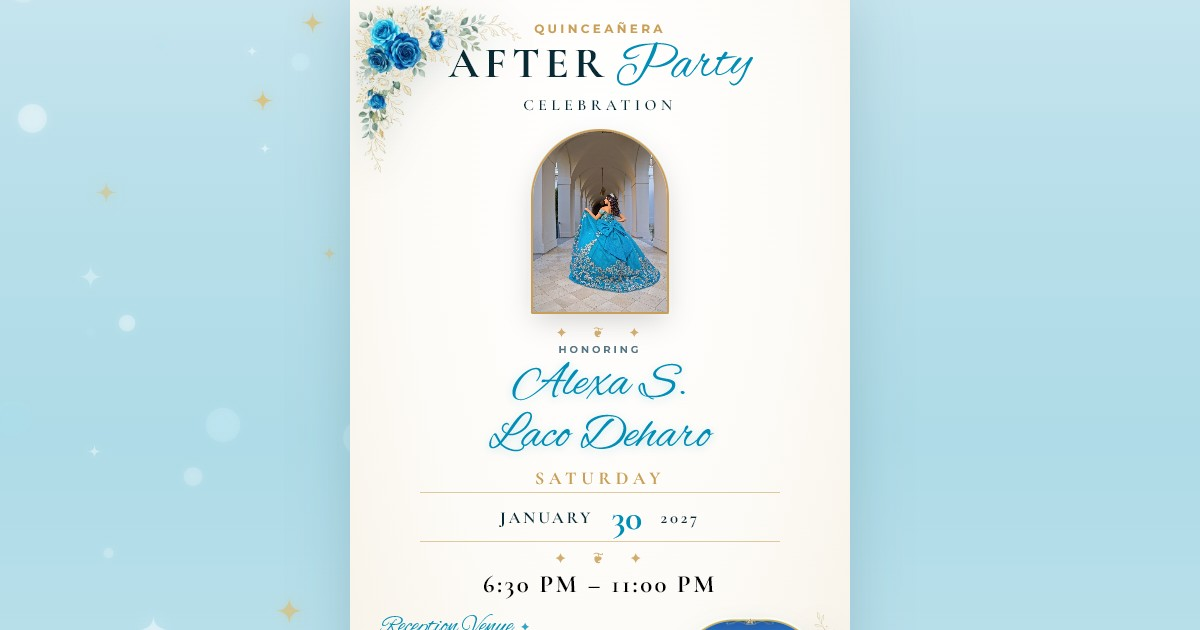
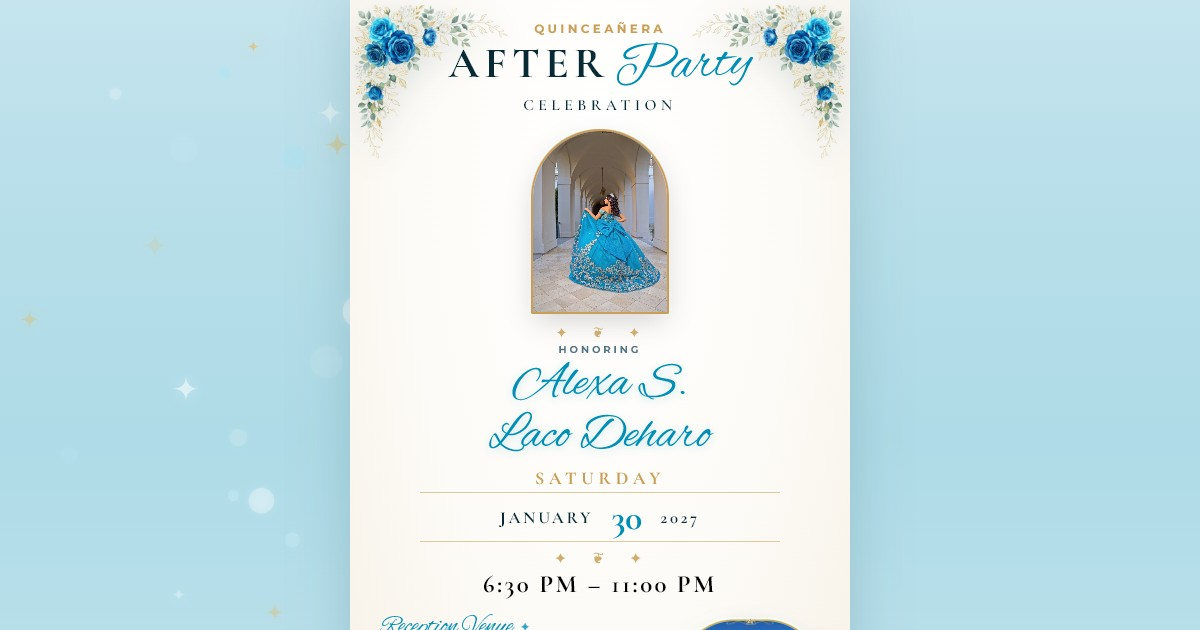
Add corner flowers to all 4 corners of alexadeharoafter stationery sheet

diff --git a/alexadeharoafter/style.css b/alexadeharoafter/style.css
@@ -126,13 +126,25 @@ body {
 .card-floral.floral-top-left {
   top: 0;
   left: 0;
-  width: clamp(130px, 30vw, 185px);
+  width: clamp(115px, 26vw, 170px);
+}
+
+.card-floral.floral-top-right {
+  top: 0;
+  right: 0;
+  width: clamp(115px, 26vw, 170px);
+}
+
+.card-floral.floral-bottom-left {
+  bottom: 0;
+  left: 0;
+  width: clamp(95px, 20vw, 140px);
 }
 
 .card-floral.floral-bottom-right {
   bottom: 0;
   right: 0;
-  width: clamp(140px, 32vw, 195px);
+  width: clamp(120px, 26vw, 175px);
 }
 
 .floral-img {
@@ -516,11 +528,15 @@ body {
   .invitation-card.paper-sheet {
     padding: clamp(1.2rem, 2.5vh, 1.8rem) 1.1rem;
   }
-  .card-floral.floral-top-left {
-    width: 110px;
+  .card-floral.floral-top-left,
+  .card-floral.floral-top-right {
+    width: 100px;
+  }
+  .card-floral.floral-bottom-left {
+    width: 82px;
   }
   .card-floral.floral-bottom-right {
-    width: 120px;
+    width: 105px;
   }
   .portrait-arch-frame {
     width: clamp(120px, 18vh, 145px);

diff --git a/alexadeharoafter/index.html b/alexadeharoafter/index.html
@@ -58,9 +58,15 @@
 
     <article class="invitation-card paper-sheet" id="invitation-card">
 
-      <!-- Light Blue Corner Floral Bouquets (Resting on paper edges without borders) -->
+      <!-- Light Blue Corner Floral Bouquets (All 4 Corners) -->
       <div class="card-floral floral-top-left" aria-hidden="true">
         <img src="photos/rose-corner-tl.png?v=3" alt="" class="floral-img" />
+      </div>
+      <div class="card-floral floral-top-right" aria-hidden="true">
+        <img src="photos/rose-corner-tr.png?v=3" alt="" class="floral-img" />
+      </div>
+      <div class="card-floral floral-bottom-left" aria-hidden="true">
+        <img src="photos/rose-corner-bl.png?v=3" alt="" class="floral-img" />
       </div>
       <div class="card-floral floral-bottom-right" aria-hidden="true">
         <img src="photos/rose-corner-br.png?v=3" alt="" class="floral-img" />
